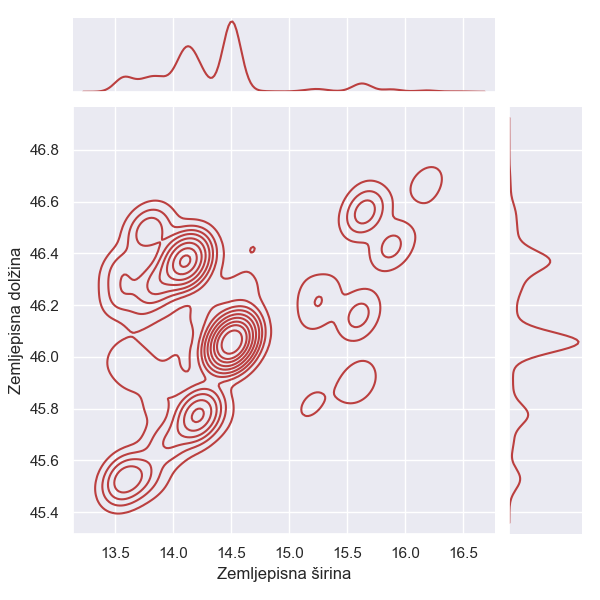
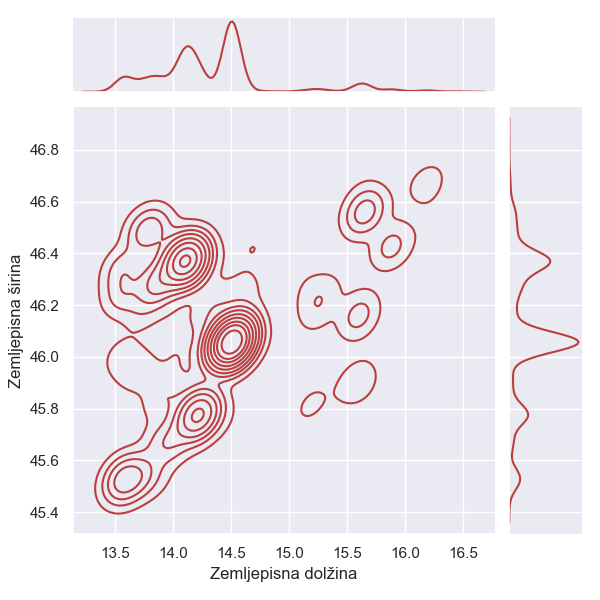
Final adjustments

Changed region(s): [[0.36, 0.93, 0.6, 0.99], [0.0, 0.42, 0.06, 0.66]]

diff --git a/masters/analyser/tourism_flows/country_2019.html b/masters/analyser/tourism_flows/country_2019.html
@@ -9,6 +9,7 @@
 <!-- <link rel="stylesheet" href="../node_modules/vis/dist/vis.min.css" type="text/css" />
 <script type="text/javascript" src="../node_modules/vis/dist/vis.js"> </script>-->
 
+
 <style type="text/css">
 
         #mynetwork {
@@ -58,7 +59,7 @@
         
 
         // parsing and collecting nodes and edges from the python
-        nodes = new vis.DataSet([{"id": 0, "label": "austria", "physics": false, "shape": "dot", "size": 20, "x": -766.24295716630, "y": -42.01262746957627}, {"id": 1, "label": "hungary", "physics": false, "shape": "dot", "size": 20, "x": -547.3882043145547, "y": -23.029812801274602}, {"id": 2, "label": "italy", "physics": false, "shape": "dot", "size": 20, "x": -899.2908176311785, "y": 206.13922288056574}, {"id": 3, "label": "slovenia", "physics": false, "shape": "dot", "size": 20, "x": -784.4913904172216, "y": 44.810440421293606}, {"id": 4, "label": "croatia", "physics": false, "shape": "dot", "size": 20, "x": -687.3250062422038, "y": 152.71119816795272}]);
+        nodes = new vis.DataSet([{"id": 0, "label": "Avstrija", "physics": false, "shape": "dot", "size": 20, "x": -766.24295716630, "y": -42.01262746957627}, {"id": 1, "label": "Madžarska", "physics": false, "shape": "dot", "size": 20, "x": -547.3882043145547, "y": -23.029812801274602}, {"id": 2, "label": "Italija", "physics": false, "shape": "dot", "size": 20, "x": -899.2908176311785, "y": 206.13922288056574}, {"id": 3, "label": "Slovenija", "physics": false, "shape": "dot", "size": 20, "x": -784.4913904172216, "y": 44.810440421293606}, {"id": 4, "label": "Hrvaška", "physics": false, "shape": "dot", "size": 20, "x": -687.3250062422038, "y": 152.71119816795272}]);
         edges = new vis.DataSet([{"arrows": "to", "from": 9, "to": 0, "width": 12.86}, {"arrows": "to", "from": 1, "to": 0, "width": 12.86}, {"arrows": "to", "from": 0, "to": 1, "width": 13.34}, {"arrows": "to", "from": 0, "to": 2, "width": 15.38}, {"arrows": "to", "from": 3, "to": 2, "width": 8.24}, {"arrows": "to", "from": 2, "to": 3, "width": 8.08}, {"arrows": "to", "from": 4, "to": 2, "width": 10.16}, {"arrows": "to", "from": 2, "to": 4, "width": 10.2}, {"arrows": "to", "from": 3, "to": 4, "width": 8.74}, {"arrows": "to", "from": 4, "to": 3, "width": 9.24}, {"arrows": "to", "from": 2, "to": 1, "width": 5.82}, {"arrows": "to", "from": 2, "to": 0, "width": 17.12}, {"arrows": "to", "from": 1, "to": 2, "width": 5.12}, {"arrows": "to", "from": 4, "to": 0, "width": 2.56}, {"arrows": "to", "from": 0, "to": 4, "width": 2.74}, {"arrows": "to", "from": 3, "to": 1, "width": 1.04}, {"arrows": "to", "from": 3, "to": 0, "width": 2.9}, {"arrows": "to", "from": 1, "to": 3, "width": 1.08}, {"arrows": "to", "from": 0, "to": 3, "width": 2.68}, {"arrows": "to", "from": 4, "to": 1, "width": 2.44}, {"arrows": "to", "from": 1, "to": 4, "width": 1.78}]);
 
         // adding nodes and edges to the graph

diff --git a/masters/analyser/tourism_flows/country_2020.html b/masters/analyser/tourism_flows/country_2020.html
@@ -10,6 +10,7 @@
 <script type="text/javascript" src="../node_modules/vis/dist/vis.js"> </script>-->
 
 
+
 <style type="text/css">
 
         #mynetwork {
@@ -59,7 +60,7 @@
         
 
         // parsing and collecting nodes and edges from the python
-        nodes = new vis.DataSet([{"id": 0, "label": "slovenia", "physics": false, "shape": "dot", "size": 20, "x": -784.4913904172216, "y": 44.810440421293606}, {"id": 1, "label": "croatia", "physics": false, "shape": "dot", "size": 20, "x": -687.3250062422038, "y": 152.71119816795272}, {"id": 2, "label": "austria", "physics": false, "shape": "dot", "size": 20, "x": -766.2429571663079, "y": -42.01262746957627}, {"id": 3, "label": "italy", "physics": false, "shape": "dot", "size": 20, "x": -899.2908176311785, "y": 206.13922288056574}, {"id": 4, "label": "hungary", "physics": false, "shape": "dot", "size": 20, "x": -547.3882043145547, "y": -23.029812801274602}]);
+        nodes = new vis.DataSet([{"id": 0, "label": "Slovenija", "physics": false, "shape": "dot", "size": 20, "x": -784.4913904172216, "y": 44.810440421293606}, {"id": 1, "label": "Hrvaška", "physics": false, "shape": "dot", "size": 20, "x": -687.3250062422038, "y": 152.71119816795272}, {"id": 2, "label": "Avstrija", "physics": false, "shape": "dot", "size": 20, "x": -766.2429571663079, "y": -42.01262746957627}, {"id": 3, "label": "Italija", "physics": false, "shape": "dot", "size": 20, "x": -899.2908176311785, "y": 206.13922288056574}, {"id": 4, "label": "Madžarska", "physics": false, "shape": "dot", "size": 20, "x": -547.3882043145547, "y": -23.029812801274602}]);
         edges = new vis.DataSet([{"arrows": "to", "from": 1, "to": 0, "width": 1.1}, {"arrows": "to", "from": 0, "to": 1, "width": 0.66}, {"arrows": "to", "from": 2, "to": 0, "width": 0.42}, {"arrows": "to", "from": 0, "to": 2, "width": 0.56}, {"arrows": "to", "from": 2, "to": 3, "width": 4.12}, {"arrows": "to", "from": 3, "to": 2, "width": 4.72}, {"arrows": "to", "from": 4, "to": 1, "width": 0.4}, {"arrows": "to", "from": 4, "to": 2, "width": 1.62}, {"arrows": "to", "from": 4, "to": 3, "width": 1.0}, {"arrows": "to", "from": 2, "to": 4, "width": 2.24}, {"arrows": "to", "from": 0, "to": 3, "width": 1.42}, {"arrows": "to", "from": 3, "to": 0, "width": 1.6}, {"arrows": "to", "from": 3, "to": 1, "width": 1.74}, {"arrows": "to", "from": 3, "to": 4, "width": 0.94}, {"arrows": "to", "from": 1, "to": 4, "width": 0.38}, {"arrows": "to", "from": 1, "to": 2, "width": 0.56}, {"arrows": "to", "from": 2, "to": 1, "width": 0.56}, {"arrows": "to", "from": 1, "to": 3, "width": 1.5}, {"arrows": "to", "from": 0, "to": 4, "width": 0.08}, {"arrows": "to", "from": 4, "to": 0, "width": 0.1}]);
 
         // adding nodes and edges to the graph

diff --git a/masters/analyser/2dgraph/2d.py b/masters/analyser/2dgraph/2d.py
@@ -43,9 +43,9 @@ def graph(year_from, year_to, country, color):
         if el[2] == "hungary":
             hu_x_arr.append(float(el[0]))
             hu_y_arr.append(float(el[1]))
-
+#Zemljepisna širina
     sl_dataset = {'SLat': sl_x_arr, 'SLng': sl_y_arr}
-    au_dataset = {'Zemljepisna širina': au_x_arr, 'Zemljepisna dolžina': au_y_arr}
+    au_dataset = {'Zemljepisna dolžina': au_x_arr, 'Zemljepisna širina': au_y_arr}
     it_dataset = {'ILat': it_x_arr, 'ILng': it_y_arr}
     hu_dataset = {'HLat': hu_x_arr, 'HLng': hu_y_arr}
     cr_dataset = {'CLat': cr_x_arr, 'CLng': cr_y_arr}
@@ -65,7 +65,7 @@ def graph(year_from, year_to, country, color):
     #sns.scatterplot(x=crdset['CLat'], y=crdset['CLng'], color="#ffc37e", label="Croatia")
     #sns.scatterplot(x=sldset['SLat'], y=sldset['SLng'], color="#ff4e60", label="Slovenia")
 
-    sns.scatterplot(x=audset['Zemljepisna širina'], y=audset['Zemljepisna dolžina'], color="#ccc", label="Avstrija")
+    sns.scatterplot(x=audset['Zemljepisna dolžina'], y=audset['Zemljepisna širina'], color="#ccc", label="Avstrija")
     sns.scatterplot(x=itdset['ILat'], y=itdset['ILng'], color="#aaa", label="Italija")
     sns.scatterplot(x=hudset['HLat'], y=hudset['HLng'], color="#999", label="Madžarska")
     sns.scatterplot(x=crdset['CLat'], y=crdset['CLng'], color="#666", label="Hrvaška")

diff --git a/masters/analyser/2dgraph/heatmap.py b/masters/analyser/2dgraph/heatmap.py
@@ -23,7 +23,7 @@ def graph(year_from, year_to, country, color):
         x_arr.append(float(el[0]))
         y_arr.append(float(el[1]))
 
-    dataset = {'Zemljepisna širina': x_arr, 'Zemljepisna dolžina': y_arr}
+    dataset = {'Zemljepisna dolžina': x_arr, 'Zemljepisna širina': y_arr}
     dset = pd.DataFrame(data=dataset)
     sns.set_theme()
     sns.set_style("white")
@@ -32,7 +32,7 @@ def graph(year_from, year_to, country, color):
     # Custom the inside plot: options are: “scatter” | “reg” | “resid” | “kde” | “hex”
     #sns.jointplot(x=dset['Lat'], y=dset['Lng'], kind='scatter', color=color)
     #plt.savefig(f'{country}-{year_from}-scatter.png'.format(country=country, year_from=year_from))
-    sns.kdeplot(x=dset['Zemljepisna širina'], y=dset['Zemljepisna dolžina'], cmap="Reds", shade=True, bw_adjust=.5)
+    sns.kdeplot(x=dset['Zemljepisna dolžina'], y=dset['Zemljepisna širina'], cmap="Reds", shade=True, bw_adjust=.5)
     #sns.jointplot(x=dset['Lat'], y=dset['Lng'], kind='kde', color=color)
     plt.savefig(f'{country}-{year_from}-kde.png'.format(country=country, year_from=year_from))
     plt.show()

diff --git a/masters/analyser/2dgraph/2d_per_country.py b/masters/analyser/2dgraph/2d_per_country.py
@@ -24,13 +24,13 @@ def graph(year_from, year_to, country, color):
         x_arr.append(float(el[0]))
         y_arr.append(float(el[1]))
 
-    dataset = {'Zemljepisna širina': x_arr, 'Zemljepisna dolžina': y_arr}
+    dataset = {'Zemljepisna dolžina': x_arr, 'Zemljepisna širina': y_arr}
     dset = pd.DataFrame(data=dataset)
     sns.set_theme()
     # Custom the inside plot: options are: “scatter” | “reg” | “resid” | “kde” | “hex”
-    sns.jointplot(x=dset['Zemljepisna širina'], y=dset['Zemljepisna dolžina'], kind='scatter', color=color)
+    sns.jointplot(x=dset['Zemljepisna dolžina'], y=dset['Zemljepisna širina'], kind='scatter', color=color)
     plt.savefig(f'{country}-{year_from}-scatter.png'.format(country=country, year_from=year_from))
-    sns.jointplot(x=dset['Zemljepisna širina'], y=dset['Zemljepisna dolžina'], kind='kde', color=color)
+    sns.jointplot(x=dset['Zemljepisna dolžina'], y=dset['Zemljepisna širina'], kind='kde', color=color)
     plt.savefig(f'{country}-{year_from}-kde-slovensko.png'.format(country=country, year_from=year_from))
     plt.show()
 
